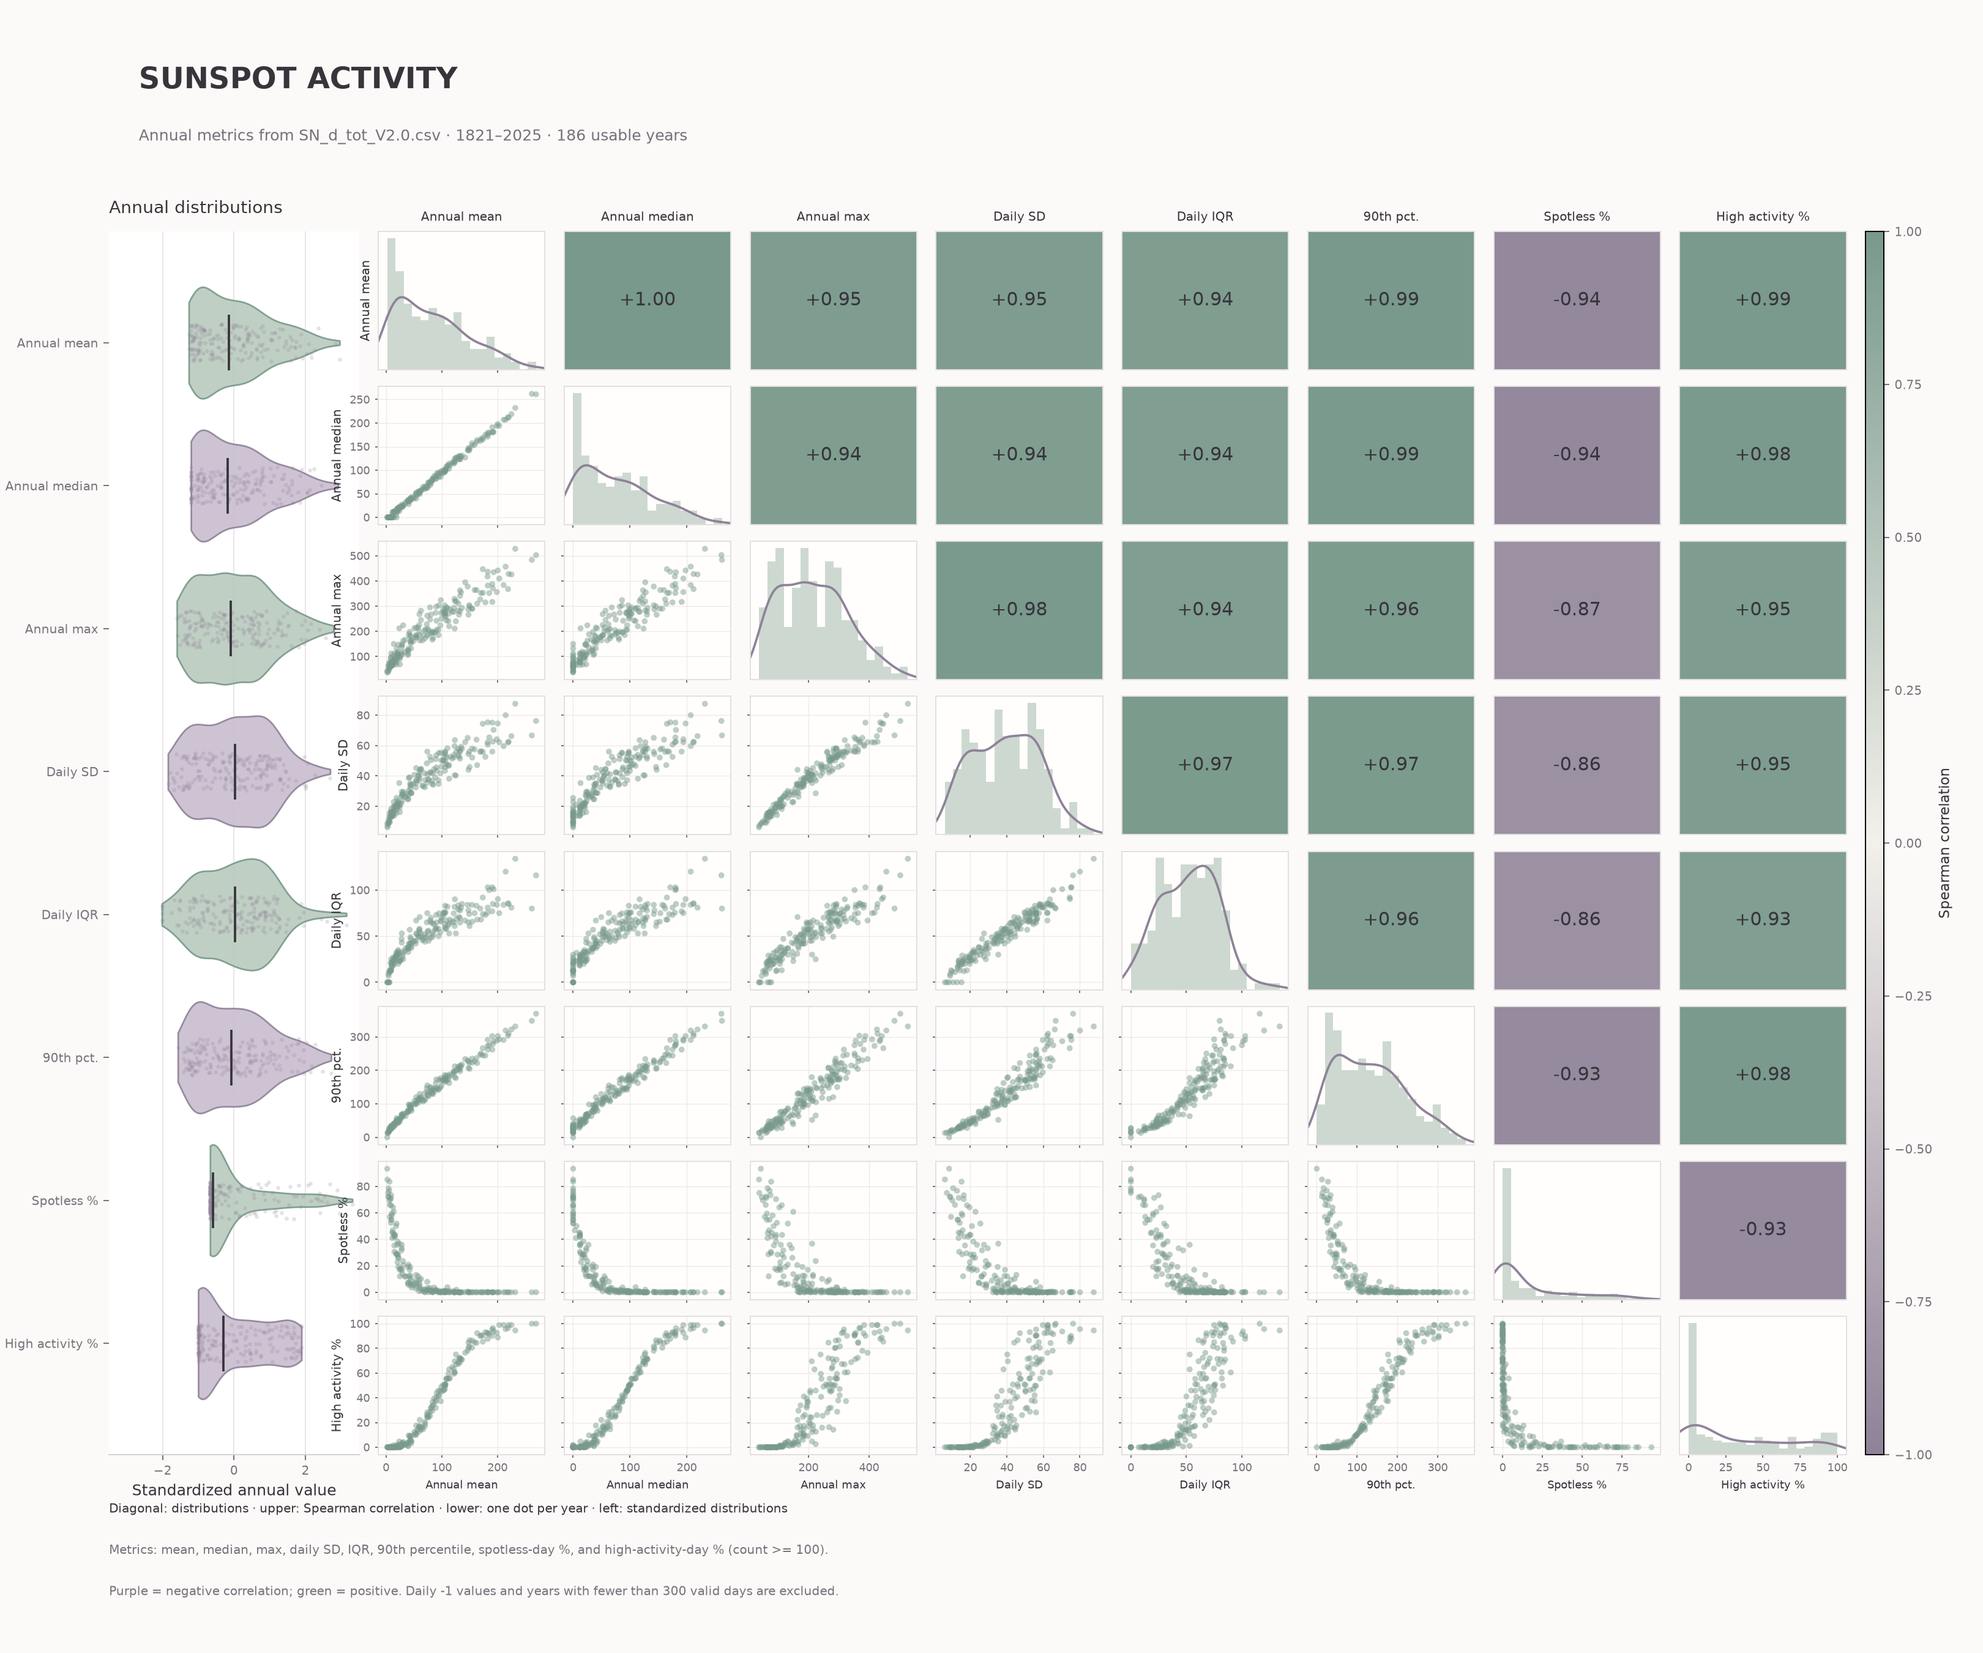
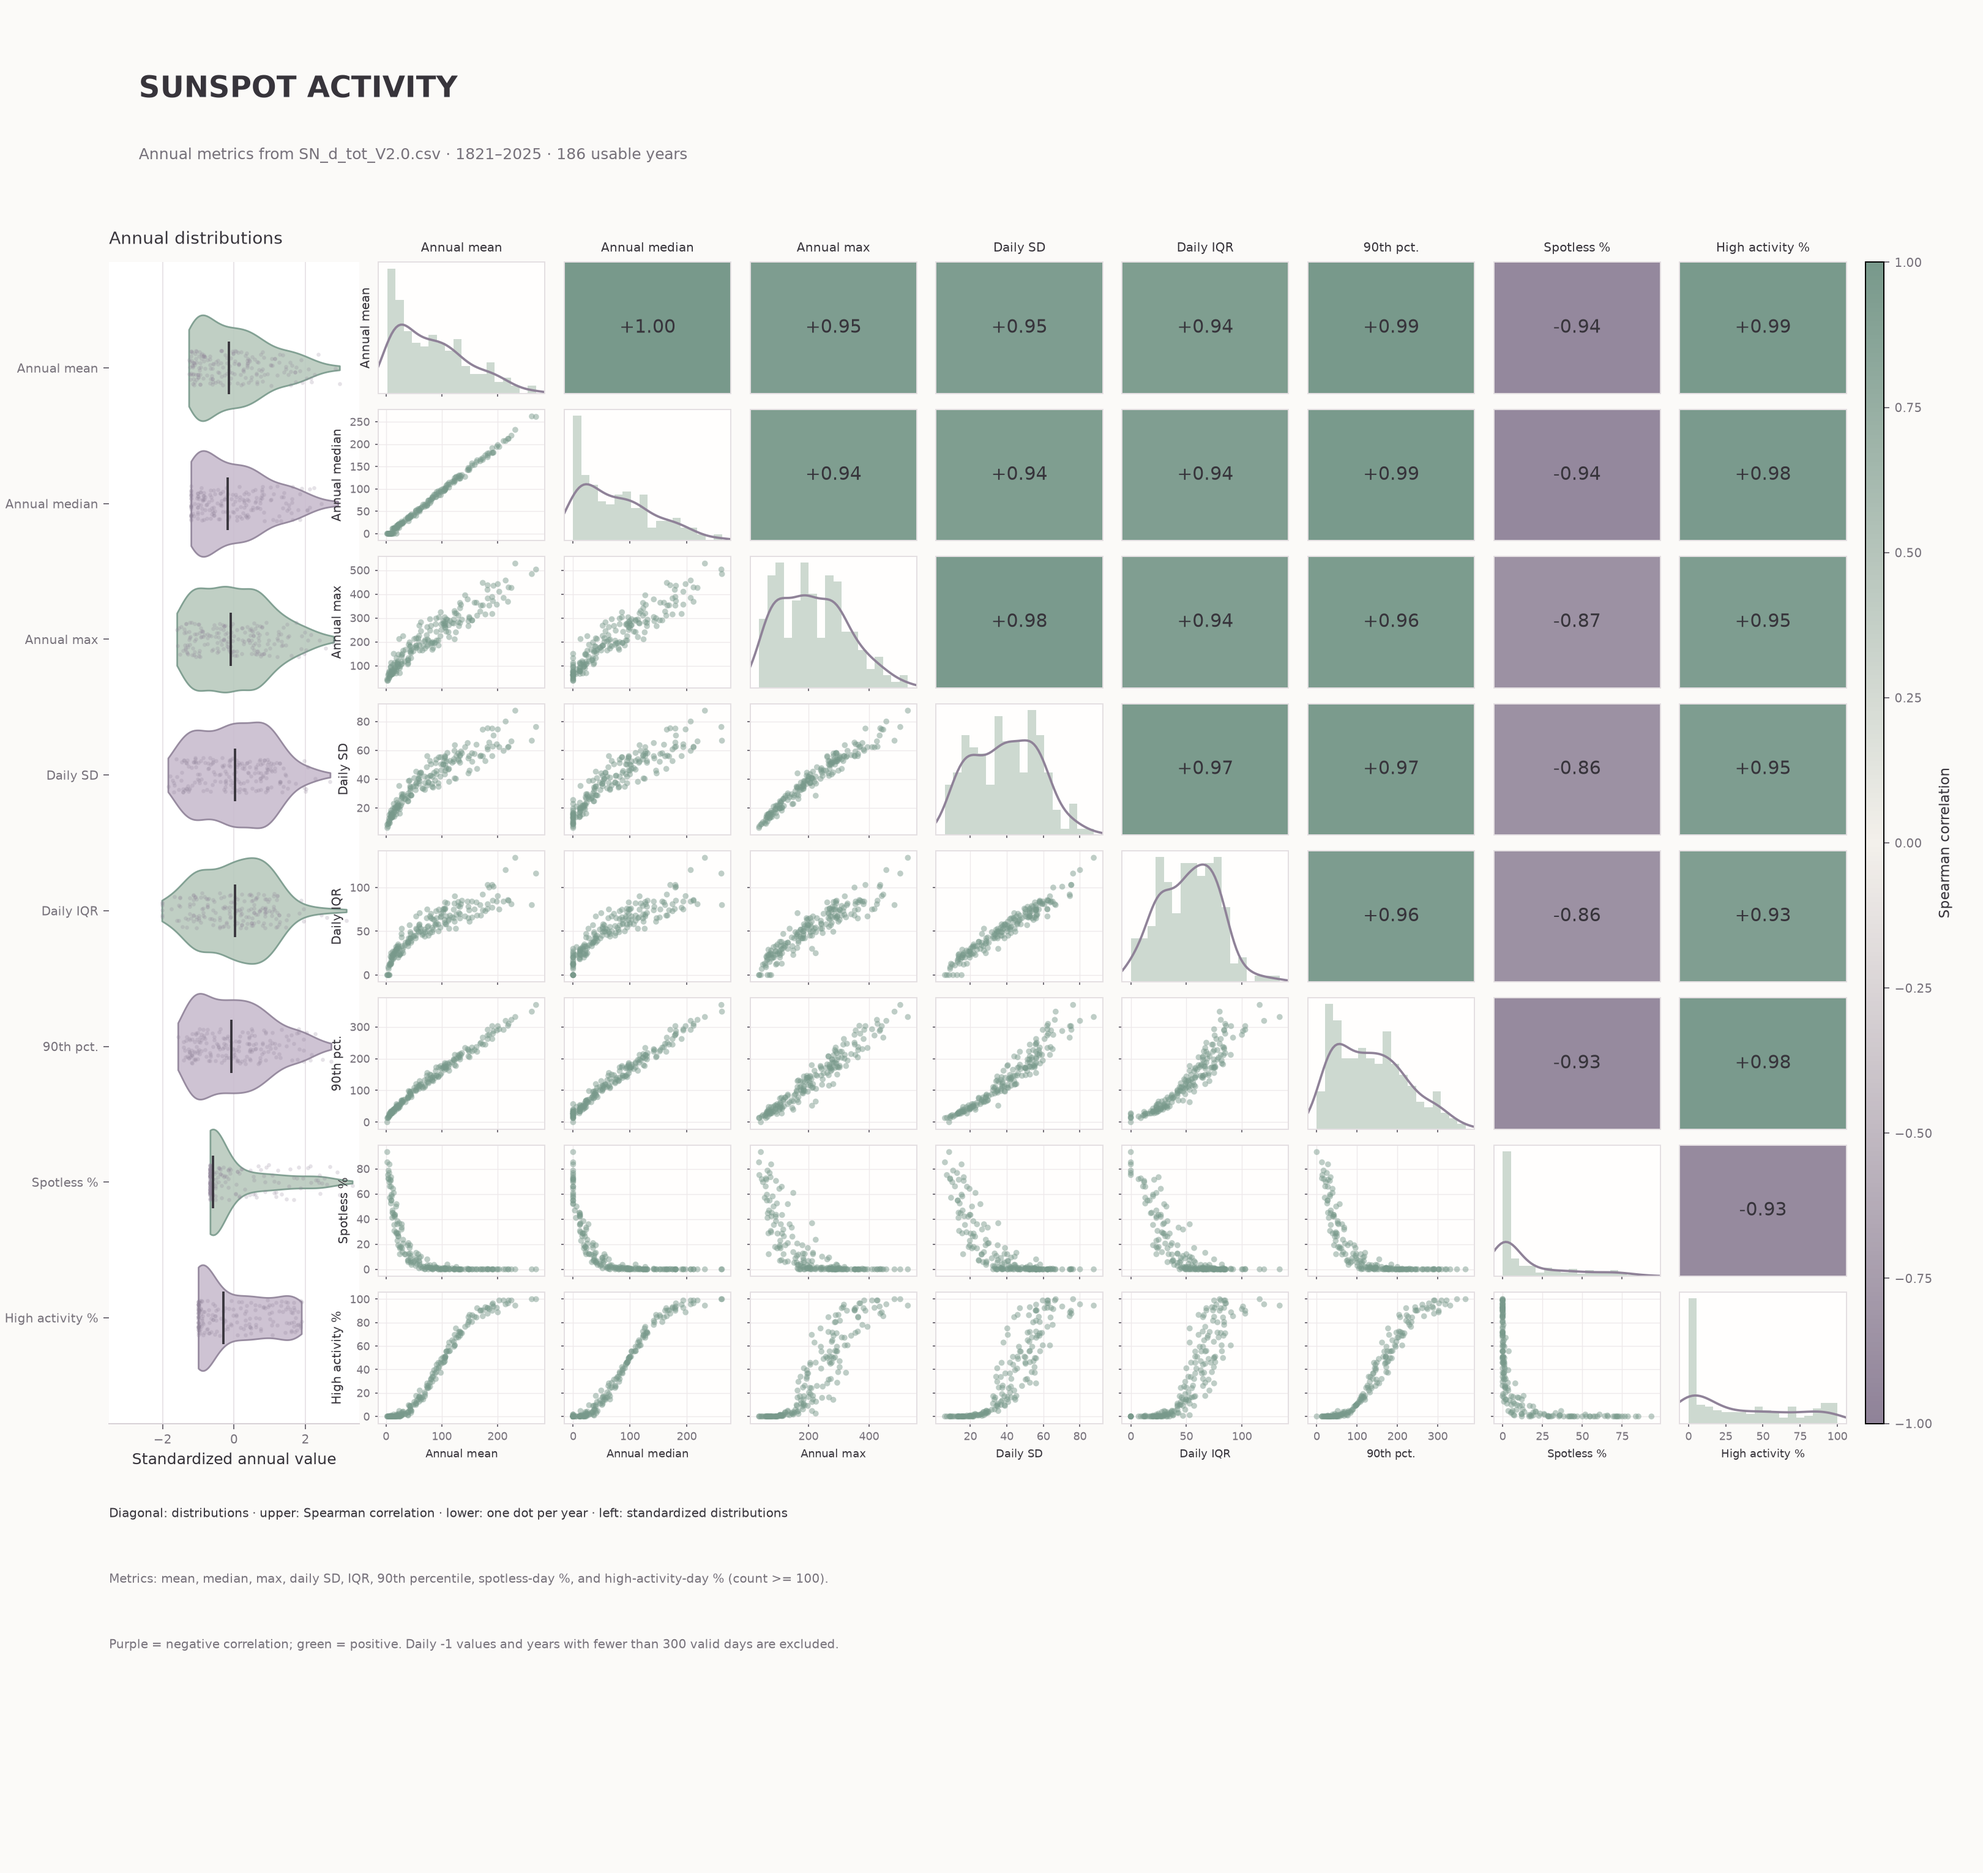
5.0 text position changed

Changed region(s): [[0.0623, 0.1244, 0.9664, 0.9644]]

diff --git a/plot_sunspots1_activity.py b/plot_sunspots1_activity.py
@@ -20,7 +20,7 @@ from matplotlib.cm import ScalarMappable
 from matplotlib.colors import LinearSegmentedColormap, Normalize
 
 FILE = "SN_d_tot_V2.0.csv"
-PICTURE = "sunspot_relationship_matrix.png"
+PICTURE = "sunspot_relationship_activity.png"
 MIN_VALID_DAYS = 300
 
 HERE = Path(__file__).parent
@@ -154,11 +154,11 @@ def main():
         standardized[label] = [(value - center) / spread if spread else 0 for value in values]
 
     feature_count = len(labels)
-    fig = plt.figure(figsize=(18, 15), facecolor="#fbfaf8")
+    fig = plt.figure(figsize=(18, 17), facecolor="#fbfaf8")
     grid = fig.add_gridspec(
         feature_count, feature_count + 2,
         width_ratios=[1.5, *([1] * feature_count), 0.11],
-        left=0.055, right=0.95, top=0.86, bottom=0.12,
+        left=0.055, right=0.95, top=0.86, bottom=0.24,
         wspace=0.12, hspace=0.12,
     )
 
@@ -265,17 +265,17 @@ def main():
         ha="left", fontsize=10, color=MUTED,
     )
     fig.text(
-        0.055, 0.085,
+        0.055, 0.190,
         "Diagonal: distributions · upper: Spearman correlation · lower: one dot per year · left: standardized distributions",
         fontsize=8, color=INK,
     )
     fig.text(
-        0.055, 0.060,
+        0.055, 0.155,
         "Metrics: mean, median, max, daily SD, IQR, 90th percentile, spotless-day %, and high-activity-day % (count >= 100).",
         fontsize=8, color=MUTED,
     )
     fig.text(
-        0.055, 0.035,
+        0.055, 0.120,
         "Purple = negative correlation; green = positive. Daily -1 values and years with fewer than 300 valid days are excluded.",
         fontsize=8, color=MUTED,
     )
